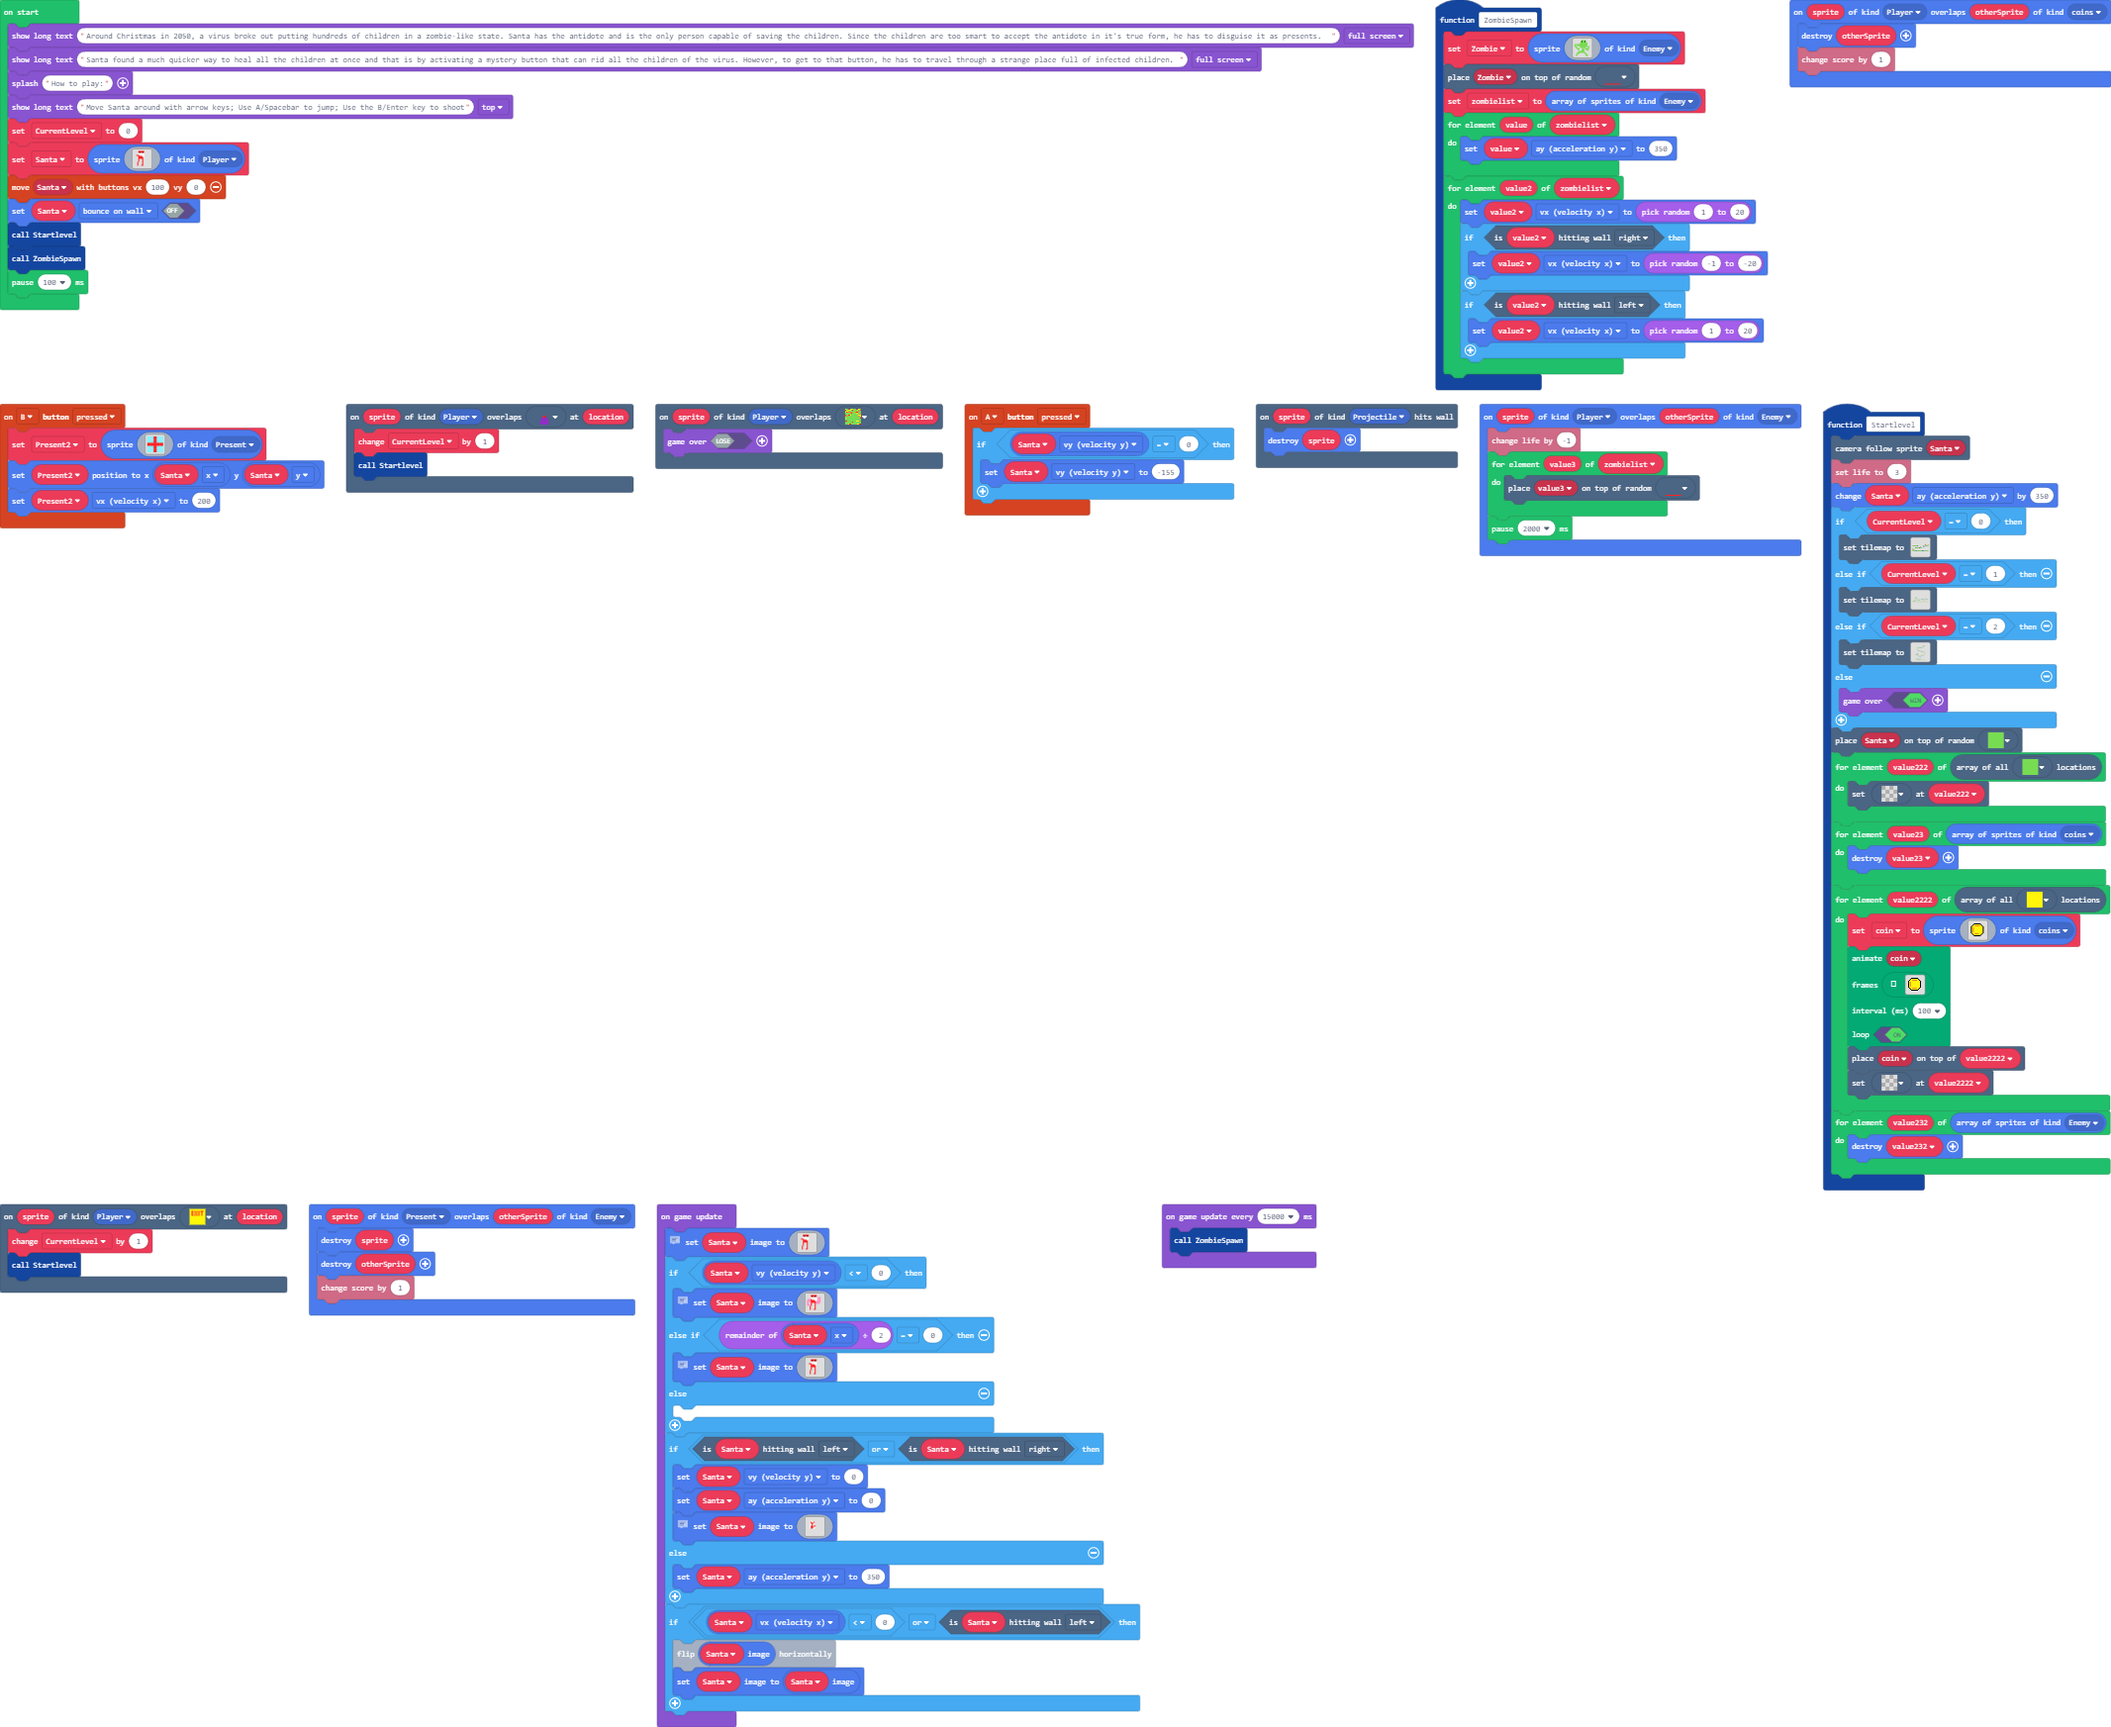
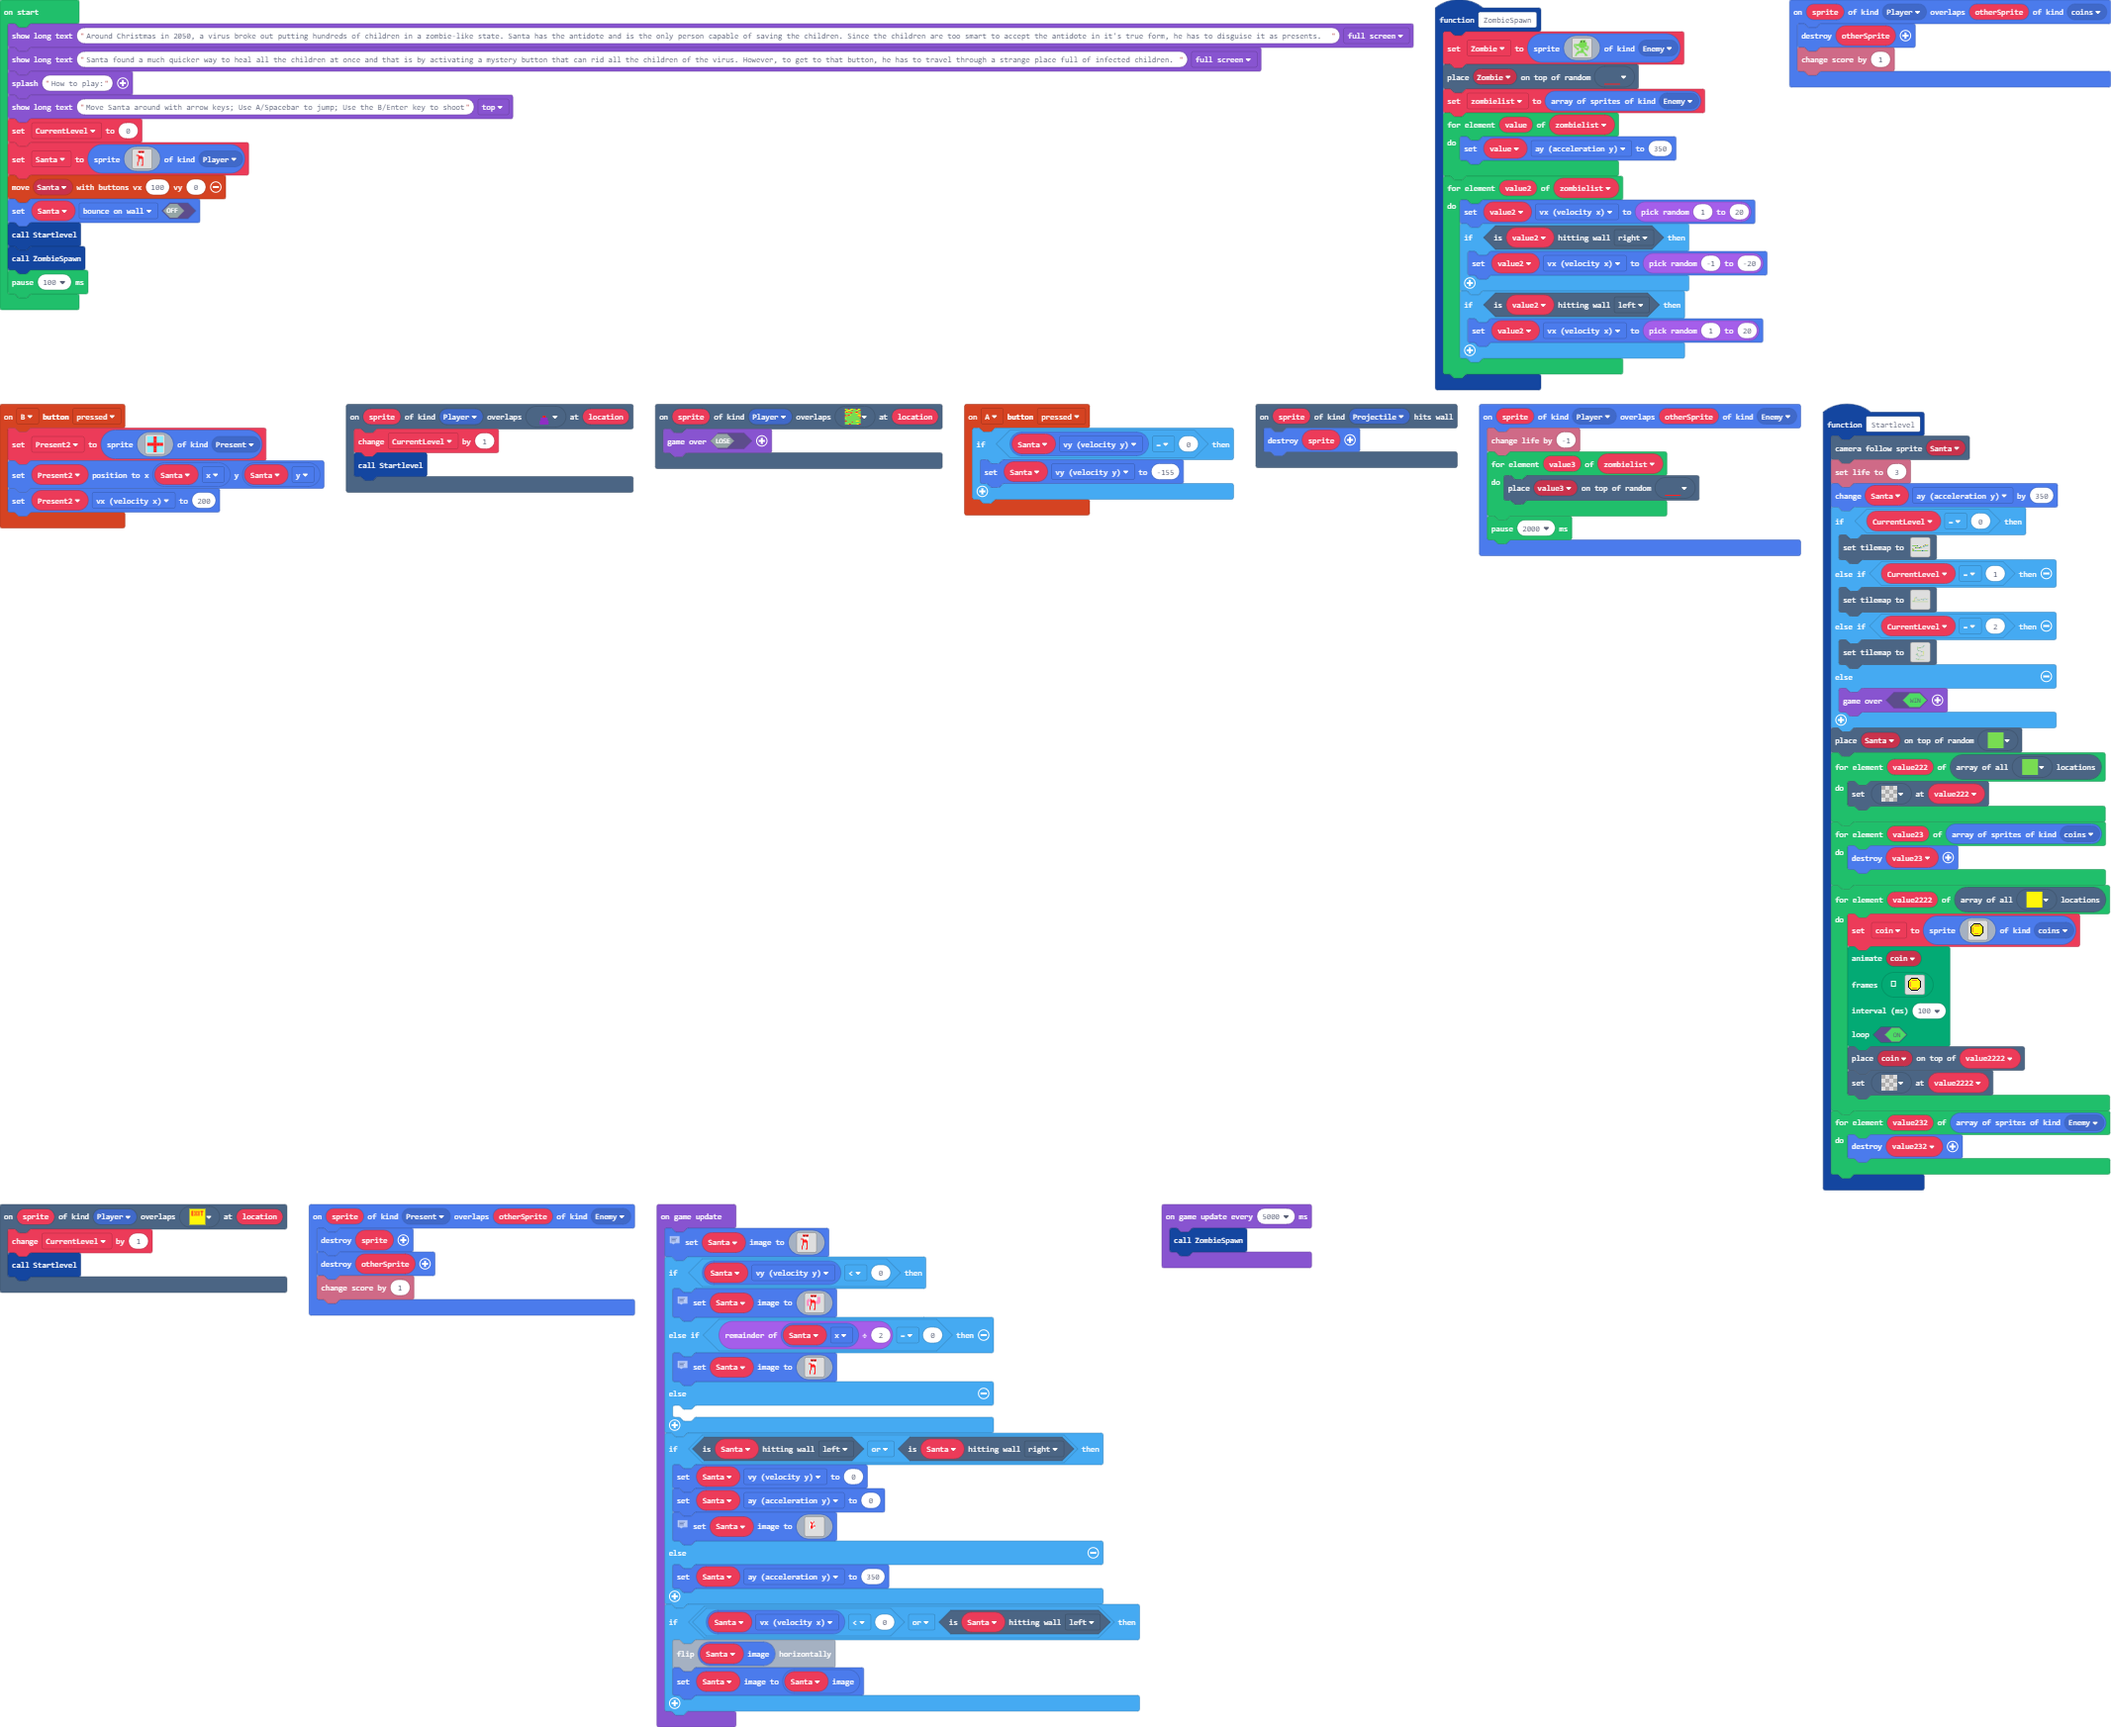
Update main.blocks, main.ts

Changed region(s): [[0.6807, 0.0619, 0.7117, 0.0928]]

diff --git a/main.ts b/main.ts
@@ -209,6 +209,43 @@ function ZombieSpawn () {
         }
     }
 }
+sprites.onOverlap(SpriteKind.Player, SpriteKind.coins, function (sprite, otherSprite) {
+    otherSprite.destroy()
+    info.changeScoreBy(1)
+})
+controller.B.onEvent(ControllerButtonEvent.Pressed, function () {
+    Present2 = sprites.create(img`
+9 9 2 9 9 
+9 9 2 9 9 
+2 2 2 2 2 
+9 9 2 9 9 
+9 9 2 9 9 
+`, SpriteKind.Present)
+    Present2.setPosition(Santa.x, Santa.y)
+    Present2.vx = 200
+})
+scene.onOverlapTile(SpriteKind.Player, myTiles.tile5, function (sprite, location) {
+    CurrentLevel += 1
+    Startlevel()
+})
+scene.onOverlapTile(SpriteKind.Player, myTiles.tile6, function (sprite, location) {
+    game.over(false)
+})
+controller.A.onEvent(ControllerButtonEvent.Pressed, function () {
+    if (Santa.vy == 0) {
+        Santa.vy = -155
+    }
+})
+scene.onHitWall(SpriteKind.Projectile, function (sprite) {
+    sprite.destroy()
+})
+sprites.onOverlap(SpriteKind.Player, SpriteKind.Enemy, function (sprite, otherSprite) {
+    info.changeLifeBy(-1)
+    for (let value3 of zombielist) {
+        tiles.placeOnRandomTile(value3, myTiles.tile3)
+    }
+    pause(2000)
+})
 function Startlevel () {
     scene.cameraFollowSprite(Santa)
     info.setLife(3)
@@ -514,43 +551,6 @@ function Startlevel () {
         value232.destroy()
     }
 }
-sprites.onOverlap(SpriteKind.Player, SpriteKind.coins, function (sprite, otherSprite) {
-    otherSprite.destroy()
-    info.changeScoreBy(1)
-})
-controller.B.onEvent(ControllerButtonEvent.Pressed, function () {
-    Present2 = sprites.create(img`
-9 9 2 9 9 
-9 9 2 9 9 
-2 2 2 2 2 
-9 9 2 9 9 
-9 9 2 9 9 
-`, SpriteKind.Present)
-    Present2.setPosition(Santa.x, Santa.y)
-    Present2.vx = 200
-})
-scene.onOverlapTile(SpriteKind.Player, myTiles.tile5, function (sprite, location) {
-    CurrentLevel += 1
-    Startlevel()
-})
-scene.onOverlapTile(SpriteKind.Player, myTiles.tile6, function (sprite, location) {
-    game.over(false)
-})
-controller.A.onEvent(ControllerButtonEvent.Pressed, function () {
-    if (Santa.vy == 0) {
-        Santa.vy = -155
-    }
-})
-scene.onHitWall(SpriteKind.Projectile, function (sprite) {
-    sprite.destroy()
-})
-sprites.onOverlap(SpriteKind.Player, SpriteKind.Enemy, function (sprite, otherSprite) {
-    info.changeLifeBy(-1)
-    for (let value3 of zombielist) {
-        tiles.placeOnRandomTile(value3, myTiles.tile3)
-    }
-    pause(2000)
-})
 scene.onOverlapTile(SpriteKind.Player, myTiles.tile2, function (sprite, location) {
     CurrentLevel += 1
     Startlevel()
@@ -560,8 +560,8 @@ sprites.onOverlap(SpriteKind.Present, SpriteKind.Enemy, function (sprite, otherS
     otherSprite.destroy()
     info.changeScoreBy(1)
 })
-let Present2: Sprite = null
 let coin: Sprite = null
+let Present2: Sprite = null
 let zombielist: Sprite[] = []
 let Zombie: Sprite = null
 let Santa: Sprite = null
@@ -687,6 +687,6 @@ game.onUpdate(function () {
         Santa.setImage(Santa.image)
     }
 })
-game.onUpdateInterval(15000, function () {
+game.onUpdateInterval(5000, function () {
     ZombieSpawn()
 })
